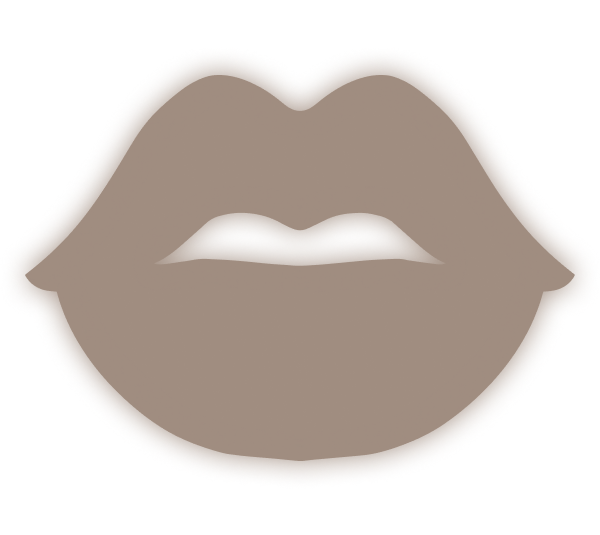
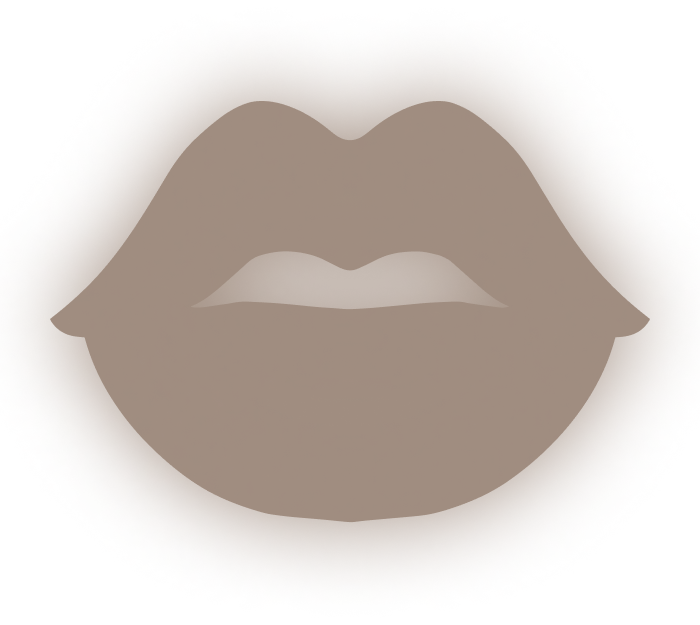
New Styling Start Section

Changed region(s): [[0.03, 0.1196, 0.96, 0.8673], [0.27, 0.3888, 0.72, 0.5084]]

diff --git a/app/components/globalStyles/Button.tsx b/app/components/globalStyles/Button.tsx
@@ -9,29 +9,60 @@ type ButtonProp = {
 }
 
 export default function Button({primary, href, content}: ButtonProp) {
-  return <ButtonBody href={href} primary={primary}>{content}</ButtonBody>;
+  return( 
+    <a>
+    <Container>
+      <Container2>
+        <ButtonBody>
+          <Text>{content}</Text></ButtonBody>
+      </Container2>
+    </Container>
+    </a>
+    );
 }
 
-const ButtonBody = styled("a")<{primary: Boolean}>`
-  background-color: ${props => props.primary ? '#cab19d' : '#030303' };
-  color: ${props => props.primary ? '#030303' : '#f7f1ed' };
-  font-weight: 600;
+const Container = styled.div`
+  padding: 1rem;
+  position: relative;
+  background: linear-gradient(180deg, #CAB19D 13.54%, rgba(202, 177, 157, 0.1) 100%);
+  /* background: linear-gradient(to right, red, purple); */
+  padding: 5px;
+  top: 25px;
+  border-radius: 13px;
+`
+const Container2 = styled.div`
+  background-color: #111010;
+  border-radius: 8px;
+`
+
+const ButtonBody = styled.div`
+  /* background: linear-gradient(180deg, rgba(202, 177, 157, 0.2) 30%, rgba(202, 177, 157, 0) 100%); */
+  /* background: rgb(202,177,157); */
+  background-color: #111010;
+  /* background: linear-gradient(180deg, rgba(202, 177, 157, 0.5) 20%, rgba(202, 177, 157, 0) 90%); */
+  background: radial-gradient(133.89% 123.53% at -11.3% -13.31%, rgba(202, 177, 157, 0.3) 0%, rgba(202, 177, 157, 0) 100%);
   border-radius: 3px;
+  color: '#CAB19D';
+  font-weight: 600;
   padding-left: 11px;
   padding-right: 11px;
   padding-top: 7px;
   padding-bottom: 7px;
-  border: 1px solid ${props => props.primary ? '#cab19d' : '#030303' };
+  border-width: 0px;
+  border-style: solid;
+  border-color: transparent;
+  border-radius: 8px;
   transition: 0.2s linear;
   cursor: pointer;
   font-size: 14pt;
   position: relative;
-  top: 25px;
+  
   text-decoration: none;
+
 
   &:hover {
     background-color: transparent;
-    color: ${props => props.primary ? '#cab19d' : '#030303' };
+    color:  '#cab19d';
   }
 
   @media (max-width: 740px) {
@@ -41,3 +72,11 @@ const ButtonBody = styled("a")<{primary: Boolean}>`
     width: 90%;
   }
 `;
+
+
+const Text = styled.p`
+    background: linear-gradient(180deg, #CAB19D 21.35%, rgba(202, 177, 157, 0.08) 100%);
+    -webkit-background-clip: text;
+    -webkit-text-fill-color: transparent;
+    background-clip: text;
+`

diff --git a/app/components/start/DescritptionStart.tsx b/app/components/start/DescritptionStart.tsx
@@ -4,18 +4,21 @@ import React from "react";
 import styled from "styled-components";
 import Title from "../globalStyles/Title";
 import Button from "../globalStyles/Button";
+import TitleDestak from "../globalStyles/TitleDestak";
+import ContainerDestak from "../globalStyles/ContainerDestak";
+import ButtonStart from "./ButtonStart";
 
 export default function DescritptionStart() {
   return (
     <DescritptionContainer>
       <SubTitle>MÉTODO MAYARA BECHI</SubTitle>
       <Title text="Esculpindo Lábios" destak={false} fontSize={48} />
-      <Title text="Perfeitos" destak={true} fontSize={48}/>
+      <TitleDestak text="Perfeitos" fontSize={48}/>
       <Text>
         Domine a técnica MMB e entregue lábios perfeitos mas acima de tudo, com
         resultados satisfatórios e naturais.
       </Text>
-      <Button primary={true} href="#forWho" content="Quero começar agora!" />
+      <ButtonStart />
     </DescritptionContainer>
   );
 }
@@ -48,6 +51,7 @@ const Text = styled.p`
   font-size: 16pt;
   padding-top: 20px;
   max-width: 400px;
+  font-weight: 300;
   @media (max-width: 740px) {
     font-size: 16px;
     padding: 20px;

diff --git a/app/components/start/ButtonStart.tsx b/app/components/start/ButtonStart.tsx
@@ -1,0 +1,40 @@
+import React from 'react'
+import styled from 'styled-components'
+import ContainerDestak from '../globalStyles/ContainerDestak'
+
+export default function ButtonStart() {
+  return (
+    <Link>
+        <Container size='250px'>
+            <Text>Quero começar agora!</Text>
+        </Container>
+    </Link>
+  )
+}
+
+const Link = styled.a`
+    position: relative;
+    top: 25px;
+    cursor: pointer;
+    transition: 0.3 linear;
+    
+   
+`
+ const Container = styled(ContainerDestak)`
+        box-shadow: rgba(0, 0, 0, 0.35) 0px 5px 15px;
+
+ `
+
+const Text = styled.p`
+    background: linear-gradient(180deg, #CAB19D 21.35%, rgba(202, 177, 157, 0.08) 100%);
+    -webkit-background-clip: text;
+    -webkit-text-fill-color: transparent;
+    background-clip: text;
+    padding-left: 11px;
+    padding-right: 11px;
+    padding-top: 7px;
+    padding-bottom: 7px;
+    font-weight: 600;
+    font-size: 14pt;
+    text-align: center;
+`

diff --git a/app/components/globalStyles/ContainerDestak.tsx b/app/components/globalStyles/ContainerDestak.tsx
@@ -1,0 +1,35 @@
+"use client";
+import { ReactNode } from "react";
+import styled from "styled-components";
+
+export default function ContainerDestak({size, children}:{children : ReactNode, size: string}) {
+  return( 
+    <Border size={size}>
+      <Background>
+        <Container>
+          {children}
+        </Container>
+      </Background>
+    </Border>
+    )
+}
+
+const Border = styled("div")<{size: string}>`
+  background: linear-gradient(180deg, #CAB19D 13.54%, rgba(202, 177, 157, 0.1) 100%);
+  padding: 5px;
+  border-radius: 8px;
+  width: ${props => props.size};
+`
+const Background = styled.div`
+  background-color: #111010;
+  border-radius: 5px;
+`
+
+const Container = styled.div`
+  background-color: #111010;
+  background: radial-gradient(133.89% 123.53% at -11.3% -13.31%, rgba(202, 177, 157, 0.3) 0%, rgba(202, 177, 157, 0) 100%);
+  border-width: 0px;
+  border-style: solid;
+  border-color: transparent;
+  border-radius: 5px;
+`;

diff --git a/app/components/globalStyles/TitleDestak.tsx b/app/components/globalStyles/TitleDestak.tsx
@@ -1,0 +1,32 @@
+import React from "react";
+import localFont from "next/font/local";
+import styled from "styled-components";
+
+const myFont = localFont({
+  src: "./Dream_Orphans.otf",
+  display: "swap",
+});
+
+type TitleProps = {
+  text: string,
+  fontSize: number
+}
+
+export default function TitleDestak({ text, fontSize }: TitleProps) {
+  return (
+    <H1 className={myFont.className}  fontSize={fontSize}>
+      {text}
+    </H1>
+  );
+}
+
+const H1 = styled.h2<{ fontSize: number}>`
+  font-size: ${(props) => (props.fontSize ? `${props.fontSize}pt` : '42pt')};
+  background: linear-gradient(180deg, #CAB19D 21.35%, rgba(202, 177, 157, 0.08) 100%);
+    -webkit-background-clip: text;
+    -webkit-text-fill-color: transparent;
+    background-clip: text;
+  @media (max-width: 740px) {
+    font-size: ${(props) => (props.fontSize ? `${props.fontSize - 6}pt` : '36pt')};
+  }
+`;

diff --git a/app/components/start/Start.tsx b/app/components/start/Start.tsx
@@ -16,7 +16,6 @@ export default function Start() {
 }
 
 const StartSection = styled.section`
-  background-color: #030303;
   display: flex;
   justify-content: center;
   flex-wrap: wrap;

diff --git a/app/components/header/Header.tsx b/app/components/header/Header.tsx
@@ -18,5 +18,4 @@ const HeaderStyle = styled.header`
     align-items: center;
     justify-content: center;
     height: 100px;
-    background-color: #030303;
 `

diff --git a/app/page.tsx b/app/page.tsx
@@ -34,5 +34,5 @@ const Container = styled.main`
   margin: 0;
   padding: 0;
   border: 0;
-  background-color: #030303;
+  background-color: #111010;
 `;

diff --git a/app/components/pains/PainContent.tsx b/app/components/pains/PainContent.tsx
@@ -47,3 +47,4 @@ const Block = styled.div`
     max-width: 400px;
     padding: 28px;
 `
+
